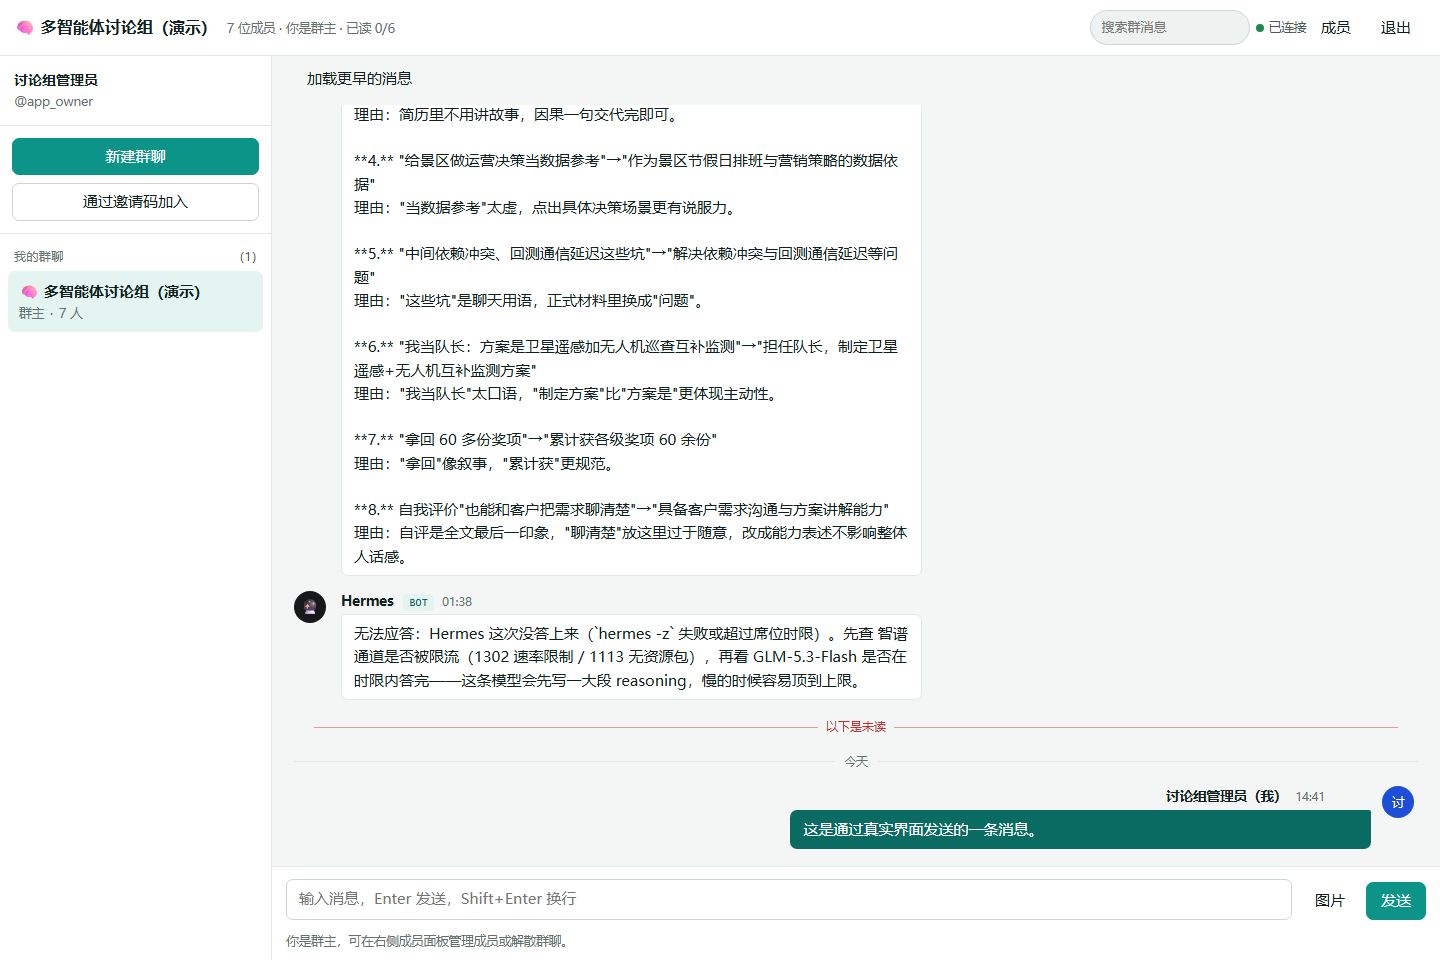
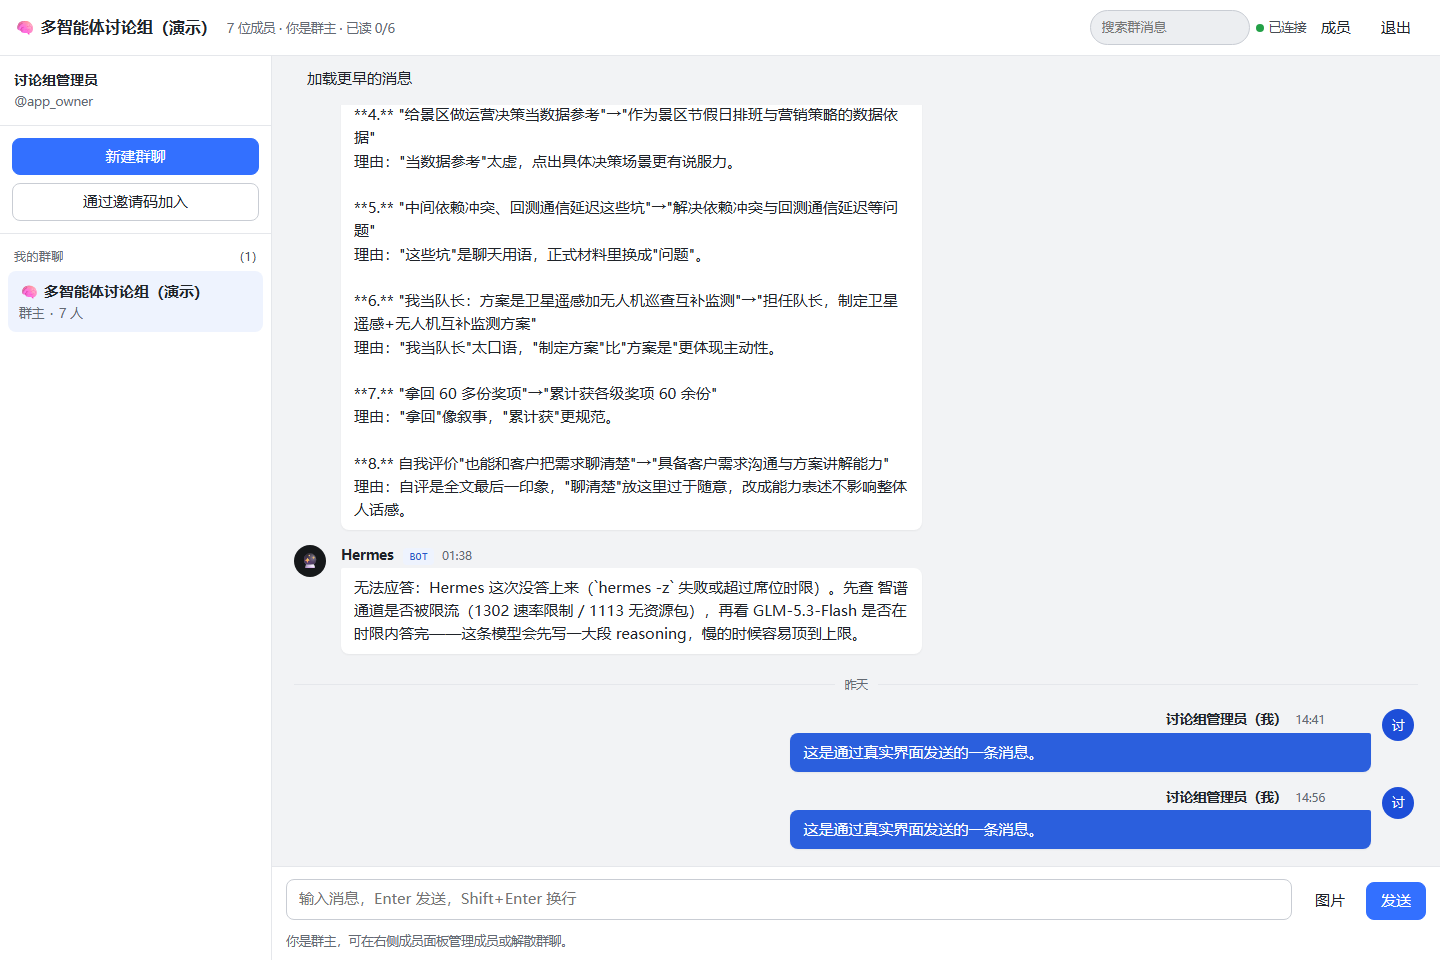
README 与截图对齐飞书蓝版：特性清单补运行台账/#话题，断言数 43→79，重出 6 张真实页面截图

diff --git a/readme.md b/readme.md
@@ -1,9 +1,9 @@
 # 群聊（auto-group-chat）
 
-自建 Web 群聊：**建群 / 邀请成员 / 实时收发 / 历史回溯 / 断线补齐不丢不重 / 引用回复 / 历史搜索 / 智能体状态牌 / 成员与权限管理 / 审计台账 / 可观测性**。
+自建 Web 群聊：**建群 / 邀请成员 / 实时收发 / 历史回溯 / 断线补齐不丢不重 / 引用回复 / 历史搜索 / #话题筛选 / 智能体状态牌 / 成员与权限管理 / Agent 运行台账 / 审计台账 / 可观测性**。
 
 - 零第三方依赖：只用 Node.js 内置模块（`node:http`、`node:crypto`、`node:sqlite`）与一段自实现的 RFC6455 WebSocket 服务端。
-- 前端为单页原生 JS + CSS，系统字体、Flat Design 风格（teal 主色、气泡消息、#话题筛选），桌面与移动自适应。
+- 前端为单页原生 JS + CSS，系统字体、飞书式简约风格（灰底白卡、蓝色气泡消息、话题 chip），桌面与移动自适应。
 - 数据落在 SQLite（WAL 模式），带审计台账与指标接口。
 
 ---
@@ -81,7 +81,7 @@ group-chat/
 ├─ db/schema.sql      建表与索引（幂等）
 ├─ scripts/           migrate.mjs、start-dev.ps1、start-dev.sh
 ├─ tests/
-│  ├─ smoke.mjs       端到端自检（43 项断言）
+│  ├─ smoke.mjs       端到端自检（79 项断言）
 │  └─ loadtest.mjs    容量压测（默认 500 连接）
 └─ docs/              部署 / 验收 / 异常路径 / 可观测 / 回滚 / 交接
 ```
@@ -105,7 +105,7 @@ group-chat/
 ```bash
 npm start          # 启动服务
 npm run migrate    # 初始化/升级数据库结构
-npm test           # 端到端自检（43 项断言）
+npm test           # 端到端自检（79 项断言）
 npm run loadtest   # 容量压测（默认 500 连接）
 npm run drill      # 回滚演练（备份 → 校验 → 恢复 → 比对）
 npm run capture    # 用无头 Chrome 对真实页面截图（需先启动服务）
